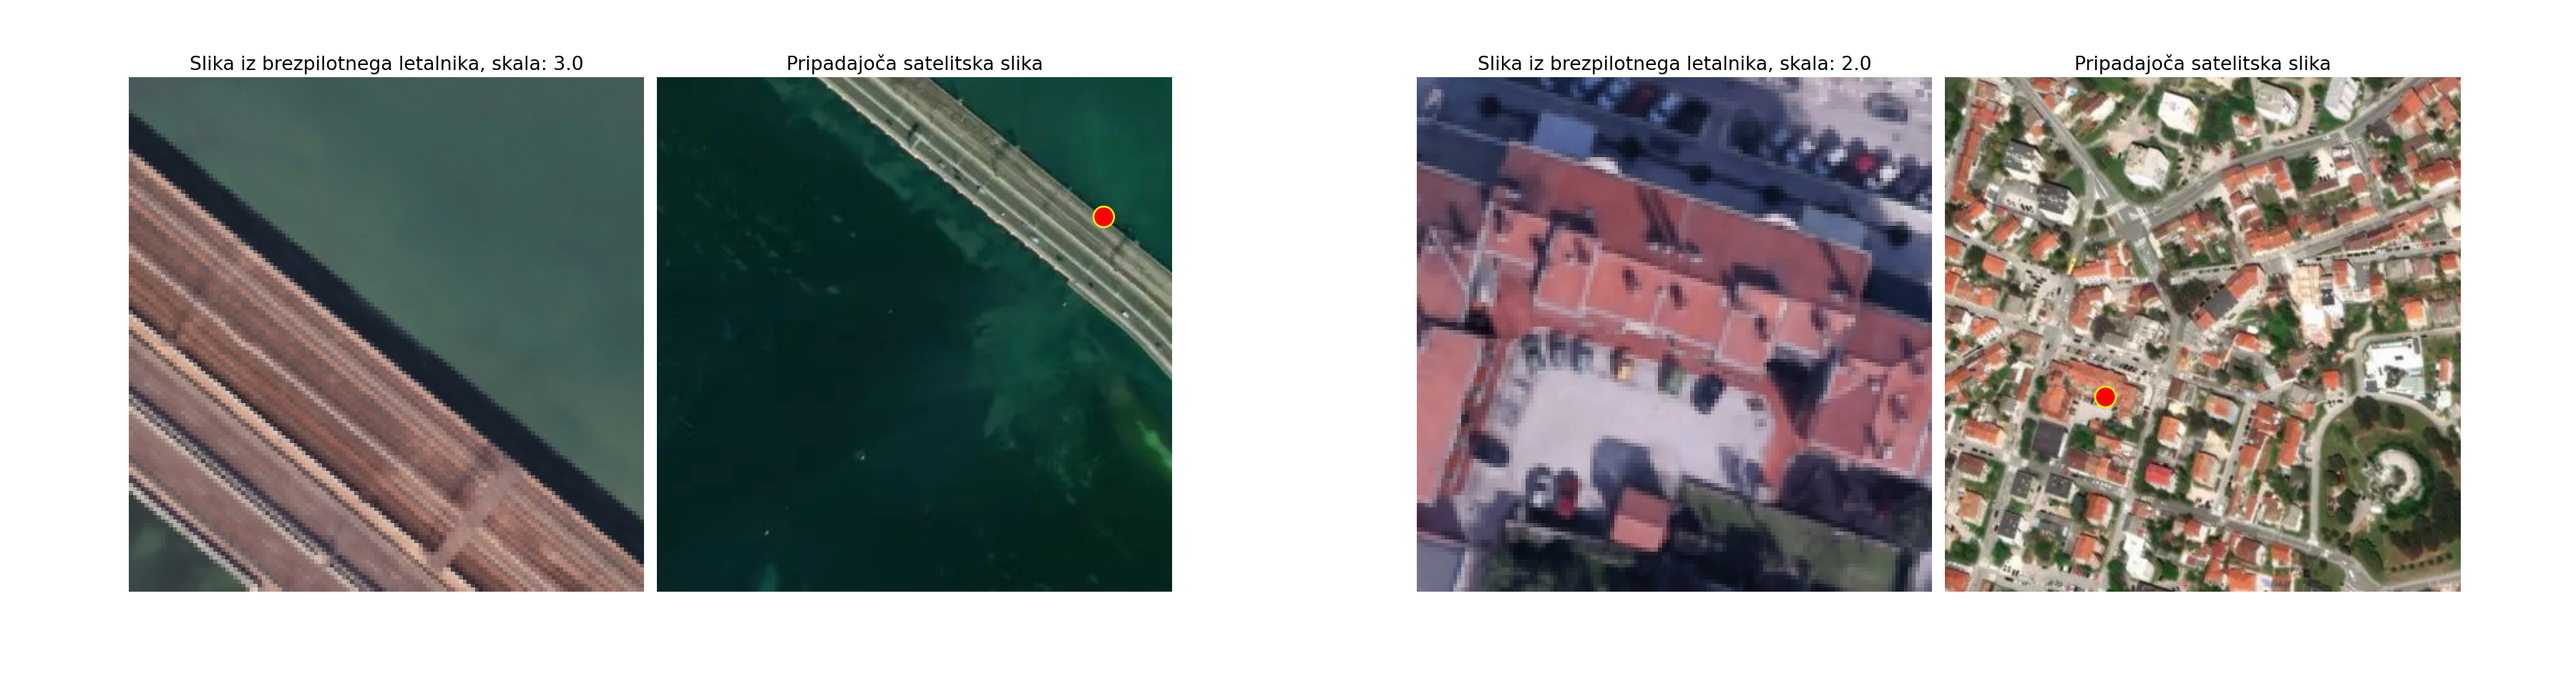
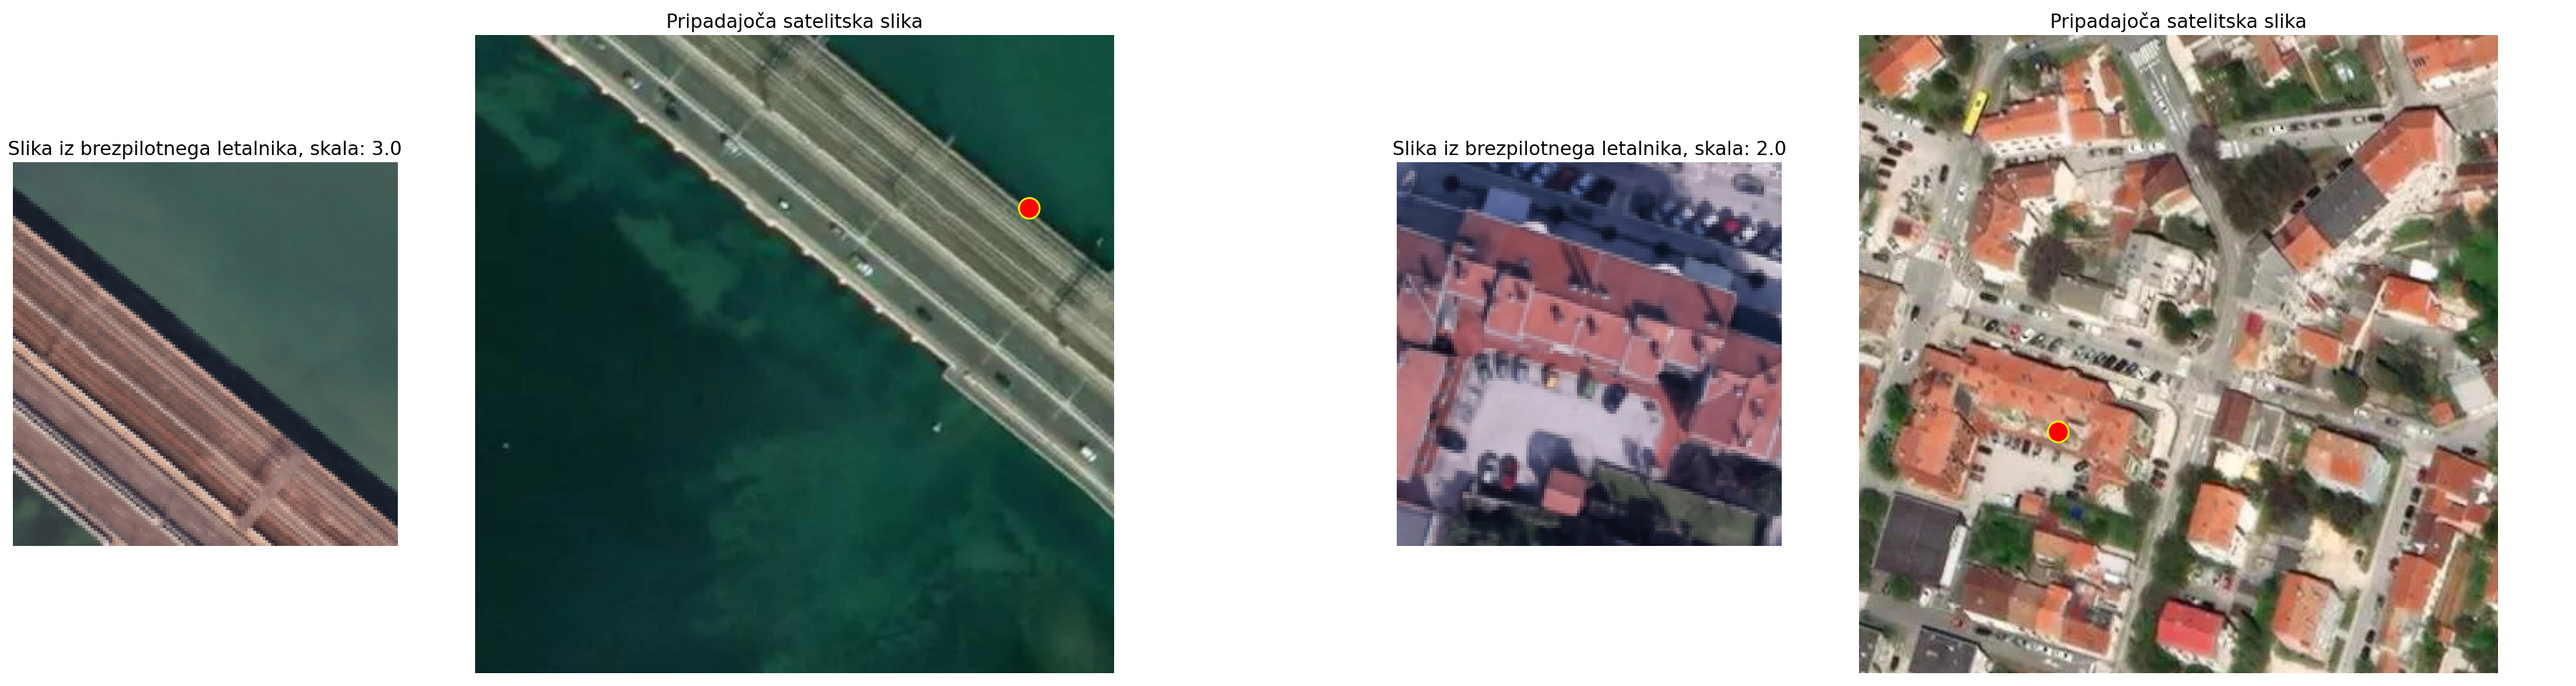
Much much much nicer plots:)

diff --git a/utils/plot_results_default_net.py b/utils/plot_results_default_net.py
@@ -1,71 +1,126 @@
-#! /usr/bin/env python3
 import matplotlib.pyplot as plt
 import matplotlib.image as mpimg
+import matplotlib.gridspec as gridspec
 
 
 def main():
     images_dict = {
         "good1": [
-            "../vis/b5ce014c96d04f16e1ffd457ca46200ed4a4bc03/sat_overlay_b5ce014c96d04f16e1ffd457ca46200ed4a4bc03-4-8.png",
-            "../vis/b5ce014c96d04f16e1ffd457ca46200ed4a4bc03/drone_image_b5ce014c96d04f16e1ffd457ca46200ed4a4bc03-4-8.png",
-            "../vis/b5ce014c96d04f16e1ffd457ca46200ed4a4bc03/sat_overlay_b5ce014c96d04f16e1ffd457ca46200ed4a4bc03-1-11.png",
-            "../vis/b5ce014c96d04f16e1ffd457ca46200ed4a4bc03/drone_image_b5ce014c96d04f16e1ffd457ca46200ed4a4bc03-1-11.png",
+            "../vis/b5ce014c96d04f16e1ffd457ca46200ed4a4bc03/sat_overlay_b5ce014c96d04f16e1ffd457ca46200ed4a4bc03-0-5.png",
+            "../vis/b5ce014c96d04f16e1ffd457ca46200ed4a4bc03/drone_image_b5ce014c96d04f16e1ffd457ca46200ed4a4bc03-0-5.png",
+            "../vis/b5ce014c96d04f16e1ffd457ca46200ed4a4bc03/satellite_image_b5ce014c96d04f16e1ffd457ca46200ed4a4bc03-0-5.png",
+            "../vis/b5ce014c96d04f16e1ffd457ca46200ed4a4bc03/sat_overlay_b5ce014c96d04f16e1ffd457ca46200ed4a4bc03-1-14.png",
+            "../vis/b5ce014c96d04f16e1ffd457ca46200ed4a4bc03/drone_image_b5ce014c96d04f16e1ffd457ca46200ed4a4bc03-1-14.png",
+            "../vis/b5ce014c96d04f16e1ffd457ca46200ed4a4bc03/satellite_image_b5ce014c96d04f16e1ffd457ca46200ed4a4bc03-1-14.png",
         ],
         "good2": [
-            "../vis/b5ce014c96d04f16e1ffd457ca46200ed4a4bc03/sat_overlay_b5ce014c96d04f16e1ffd457ca46200ed4a4bc03-2-6.png",
-            "../vis/b5ce014c96d04f16e1ffd457ca46200ed4a4bc03/drone_image_b5ce014c96d04f16e1ffd457ca46200ed4a4bc03-2-6.png",
-            "../vis/b5ce014c96d04f16e1ffd457ca46200ed4a4bc03/sat_overlay_b5ce014c96d04f16e1ffd457ca46200ed4a4bc03-3-4.png",
-            "../vis/b5ce014c96d04f16e1ffd457ca46200ed4a4bc03/drone_image_b5ce014c96d04f16e1ffd457ca46200ed4a4bc03-3-4.png",
+            "../vis/b5ce014c96d04f16e1ffd457ca46200ed4a4bc03/sat_overlay_b5ce014c96d04f16e1ffd457ca46200ed4a4bc03-5-0.png",
+            "../vis/b5ce014c96d04f16e1ffd457ca46200ed4a4bc03/drone_image_b5ce014c96d04f16e1ffd457ca46200ed4a4bc03-5-0.png",
+            "../vis/b5ce014c96d04f16e1ffd457ca46200ed4a4bc03/satellite_image_b5ce014c96d04f16e1ffd457ca46200ed4a4bc03-5-0.png",
+            "../vis/b5ce014c96d04f16e1ffd457ca46200ed4a4bc03/sat_overlay_b5ce014c96d04f16e1ffd457ca46200ed4a4bc03-5-1.png",
+            "../vis/b5ce014c96d04f16e1ffd457ca46200ed4a4bc03/drone_image_b5ce014c96d04f16e1ffd457ca46200ed4a4bc03-5-1.png",
+            "../vis/b5ce014c96d04f16e1ffd457ca46200ed4a4bc03/satellite_image_b5ce014c96d04f16e1ffd457ca46200ed4a4bc03-5-1.png",
+        ],
+        "good3": [
+            "../vis/b5ce014c96d04f16e1ffd457ca46200ed4a4bc03/sat_overlay_b5ce014c96d04f16e1ffd457ca46200ed4a4bc03-4-8.png",
+            "../vis/b5ce014c96d04f16e1ffd457ca46200ed4a4bc03/drone_image_b5ce014c96d04f16e1ffd457ca46200ed4a4bc03-4-8.png",
+            "../vis/b5ce014c96d04f16e1ffd457ca46200ed4a4bc03/satellite_image_b5ce014c96d04f16e1ffd457ca46200ed4a4bc03-4-8.png",
+            "../vis/b5ce014c96d04f16e1ffd457ca46200ed4a4bc03/sat_overlay_b5ce014c96d04f16e1ffd457ca46200ed4a4bc03-0-14.png",
+            "../vis/b5ce014c96d04f16e1ffd457ca46200ed4a4bc03/drone_image_b5ce014c96d04f16e1ffd457ca46200ed4a4bc03-0-14.png",
+            "../vis/b5ce014c96d04f16e1ffd457ca46200ed4a4bc03/satellite_image_b5ce014c96d04f16e1ffd457ca46200ed4a4bc03-0-14.png",
         ],
         "bad1": [
-            "../vis/b5ce014c96d04f16e1ffd457ca46200ed4a4bc03/sat_overlay_b5ce014c96d04f16e1ffd457ca46200ed4a4bc03-2-9.png",
-            "../vis/b5ce014c96d04f16e1ffd457ca46200ed4a4bc03/drone_image_b5ce014c96d04f16e1ffd457ca46200ed4a4bc03-2-9.png",
-            "../vis/b5ce014c96d04f16e1ffd457ca46200ed4a4bc03/sat_overlay_b5ce014c96d04f16e1ffd457ca46200ed4a4bc03-2-9.png",
-            "../vis/b5ce014c96d04f16e1ffd457ca46200ed4a4bc03/drone_image_b5ce014c96d04f16e1ffd457ca46200ed4a4bc03-2-9.png",
+            "../vis/b5ce014c96d04f16e1ffd457ca46200ed4a4bc03/sat_overlay_b5ce014c96d04f16e1ffd457ca46200ed4a4bc03-12-1.png",
+            "../vis/b5ce014c96d04f16e1ffd457ca46200ed4a4bc03/drone_image_b5ce014c96d04f16e1ffd457ca46200ed4a4bc03-12-1.png",
+            "../vis/b5ce014c96d04f16e1ffd457ca46200ed4a4bc03/satellite_image_b5ce014c96d04f16e1ffd457ca46200ed4a4bc03-12-1.png",
+            "../vis/b5ce014c96d04f16e1ffd457ca46200ed4a4bc03/sat_overlay_b5ce014c96d04f16e1ffd457ca46200ed4a4bc03-17-5.png",
+            "../vis/b5ce014c96d04f16e1ffd457ca46200ed4a4bc03/drone_image_b5ce014c96d04f16e1ffd457ca46200ed4a4bc03-17-5.png",
+            "../vis/b5ce014c96d04f16e1ffd457ca46200ed4a4bc03/satellite_image_b5ce014c96d04f16e1ffd457ca46200ed4a4bc03-17-5.png",
         ],
         "bad2": [
-            "../vis/b5ce014c96d04f16e1ffd457ca46200ed4a4bc03/sat_overlay_b5ce014c96d04f16e1ffd457ca46200ed4a4bc03-5-5.png",
-            "../vis/b5ce014c96d04f16e1ffd457ca46200ed4a4bc03/drone_image_b5ce014c96d04f16e1ffd457ca46200ed4a4bc03-5-5.png",
-            "../vis/b5ce014c96d04f16e1ffd457ca46200ed4a4bc03/sat_overlay_b5ce014c96d04f16e1ffd457ca46200ed4a4bc03-16-4.png",
-            "../vis/b5ce014c96d04f16e1ffd457ca46200ed4a4bc03/drone_image_b5ce014c96d04f16e1ffd457ca46200ed4a4bc03-16-4.png",
+            "../vis/b5ce014c96d04f16e1ffd457ca46200ed4a4bc03/sat_overlay_b5ce014c96d04f16e1ffd457ca46200ed4a4bc03-6-9.png",
+            "../vis/b5ce014c96d04f16e1ffd457ca46200ed4a4bc03/drone_image_b5ce014c96d04f16e1ffd457ca46200ed4a4bc03-6-9.png",
+            "../vis/b5ce014c96d04f16e1ffd457ca46200ed4a4bc03/satellite_image_b5ce014c96d04f16e1ffd457ca46200ed4a4bc03-6-9.png",
+            "../vis/b5ce014c96d04f16e1ffd457ca46200ed4a4bc03/sat_overlay_b5ce014c96d04f16e1ffd457ca46200ed4a4bc03-18-11.png",
+            "../vis/b5ce014c96d04f16e1ffd457ca46200ed4a4bc03/drone_image_b5ce014c96d04f16e1ffd457ca46200ed4a4bc03-18-11.png",
+            "../vis/b5ce014c96d04f16e1ffd457ca46200ed4a4bc03/satellite_image_b5ce014c96d04f16e1ffd457ca46200ed4a4bc03-18-11.png",
+        ],
+        "bad3": [
+            "../vis/b5ce014c96d04f16e1ffd457ca46200ed4a4bc03/sat_overlay_b5ce014c96d04f16e1ffd457ca46200ed4a4bc03-24-9.png",
+            "../vis/b5ce014c96d04f16e1ffd457ca46200ed4a4bc03/drone_image_b5ce014c96d04f16e1ffd457ca46200ed4a4bc03-24-9.png",
+            "../vis/b5ce014c96d04f16e1ffd457ca46200ed4a4bc03/satellite_image_b5ce014c96d04f16e1ffd457ca46200ed4a4bc03-24-9.png",
+            "../vis/b5ce014c96d04f16e1ffd457ca46200ed4a4bc03/sat_overlay_b5ce014c96d04f16e1ffd457ca46200ed4a4bc03-1-13.png",
+            "../vis/b5ce014c96d04f16e1ffd457ca46200ed4a4bc03/drone_image_b5ce014c96d04f16e1ffd457ca46200ed4a4bc03-1-13.png",
+            "../vis/b5ce014c96d04f16e1ffd457ca46200ed4a4bc03/satellite_image_b5ce014c96d04f16e1ffd457ca46200ed4a4bc03-1-13.png",
         ],
     }
 
-    def plot_quadruple(drone_path1, sat_path1, drone_path2, sat_path2, count):
-        fig, axs = plt.subplots(1, 4, figsize=(30, 8))
+    def plot_quadruple(
+        drone_path1,
+        sat_path1,
+        overlay_path1,
+        drone_path2,
+        sat_path2,
+        overlay_path2,
+        count,
+    ):
+        # Create the figure
+        fig = plt.figure(figsize=(30, 8))
 
-        drone_img1 = mpimg.imread(drone_path1)
-        axs[0].imshow(drone_img1)
-        axs[0].set_title("Slika iz brezpilotnega letalnika", fontsize=16)
-        axs[0].axis("off")
+        gs = gridspec.GridSpec(1, 7, width_ratios=[1, 2, 2, 0.5, 1, 2, 2])
 
-        sat_img1 = mpimg.imread(sat_path1)
-        axs[1].imshow(sat_img1)
-        axs[1].set_title("Izhod modela", fontsize=16)
-        axs[1].axis("off")
+        ax1 = fig.add_subplot(gs[0])
+        ax1.imshow(mpimg.imread(drone_path1))
+        ax1.set_title("Drone Image", fontsize=16)
+        ax1.axis("off")
 
-        drone_img2 = mpimg.imread(drone_path2)
-        axs[2].imshow(drone_img2)
-        axs[2].set_title("Slika iz brezpilotnega letalnika", fontsize=16)
-        axs[2].axis("off")
+        ax2 = fig.add_subplot(gs[1])
+        ax2.imshow(mpimg.imread(sat_path1))
+        ax2.set_title("Satellite Image", fontsize=16)
+        ax2.axis("off")
 
-        sat_img2 = mpimg.imread(sat_path2)
-        axs[3].imshow(sat_img2)
-        axs[3].set_title("Izhod modela", fontsize=16)
-        axs[3].axis("off")
+        ax3 = fig.add_subplot(gs[2])
+        ax3.imshow(mpimg.imread(overlay_path1))
+        ax3.set_title("Satellite Overlay", fontsize=16)
+        ax3.axis("off")
 
-        axs[0].set_position([0.05, 0.125, 0.2, 0.775])  # [left, bottom, width, height]
-        axs[1].set_position([0.255, 0.125, 0.2, 0.775])
-        axs[2].set_position([0.55, 0.125, 0.2, 0.775])
-        axs[3].set_position([0.755, 0.125, 0.2, 0.775])
+        ax4 = fig.add_subplot(gs[4])
+        ax4.imshow(mpimg.imread(drone_path2))
+        ax4.set_title("Drone Image", fontsize=16)
+        ax4.axis("off")
 
-        plt.savefig(f"./res/drone_net_example_{count}.png", dpi=140)
+        ax5 = fig.add_subplot(gs[5])
+        ax5.imshow(mpimg.imread(sat_path2))
+        ax5.set_title("Satellite Image", fontsize=16)
+        ax5.axis("off")
+
+        ax6 = fig.add_subplot(gs[6])
+        ax6.imshow(mpimg.imread(overlay_path2))
+        ax6.set_title("Satellite Overlay", fontsize=16)
+        ax6.axis("off")
+
+        plt.tight_layout()
+
+        plt.savefig(
+            f"./res/drone_net_example_{count}.png",
+            dpi=100,
+            bbox_inches="tight",
+            pad_inches=0.1,
+        )
         plt.close()
 
     count = 0
     for category, paths in images_dict.items():
-        for i in range(0, len(paths), 4):  # We take in groups of 4 now
-            plot_quadruple(paths[i + 1], paths[i], paths[i + 3], paths[i + 2], count)
+        for i in range(0, len(paths), 6):  # Groups of 6
+            plot_quadruple(
+                paths[i + 1],
+                paths[i + 2],
+                paths[i],
+                paths[i + 4],
+                paths[i + 5],
+                paths[i + 3],
+                count,
+            )
             count += 1
 
 

diff --git a/joined_dataset.py b/joined_dataset.py
@@ -759,20 +759,25 @@ def test():
 
         drone_images, drone_infos, satellite_images, _ = batch  # We don't need heatmaps
 
-        fig, axs = plt.subplots(1, 4, figsize=(30, 8))
+        fig = plt.figure(figsize=(30, 8))
+
+        # Using gridspec to define the structure
+        gs = gridspec.GridSpec(1, 5, width_ratios=[1, 2, 0.5, 1, 2])
 
         # Drone Image 1
-        axs[0].imshow(inverse_transforms(drone_images[0]))
-        axs[0].set_title(
+        ax1 = fig.add_subplot(gs[0])
+        ax1.imshow(inverse_transforms(drone_images[0]))
+        ax1.set_title(
             f"Slika iz brezpilotnega letalnika, skala: {drone_infos['scale'][0]}",
             fontsize=16,
         )
-        axs[0].axis("off")
+        ax1.axis("off")
 
         # Satellite Image 1
-        axs[1].imshow(inverse_transforms(satellite_images[0]))
-        axs[1].set_title(f"Pripadajoča satelitska slika", fontsize=16)
-        axs[1].scatter(
+        ax2 = fig.add_subplot(gs[1])
+        ax2.imshow(inverse_transforms(satellite_images[0]))
+        ax2.set_title(f"Pripadajoča satelitska slika", fontsize=16)
+        ax2.scatter(
             drone_infos["x_sat"][0],
             drone_infos["y_sat"][0],
             c="r",
@@ -780,26 +785,22 @@ def test():
             edgecolor="yellow",
             linewidths=1.5,
         )
-        axs[1].axis("off")
-
-        # Adjusting the positions
-        axs[0].set_position([0.05, 0.125, 0.2, 0.775])  # [left, bottom, width, height]
-        axs[1].set_position([0.255, 0.125, 0.2, 0.775])
-        axs[2].set_position([0.55, 0.125, 0.2, 0.775])
-        axs[3].set_position([0.755, 0.125, 0.2, 0.775])
+        ax2.axis("off")
 
         # Drone Image 2
-        axs[2].imshow(inverse_transforms(drone_images[1]))
-        axs[2].set_title(
+        ax3 = fig.add_subplot(gs[3])
+        ax3.imshow(inverse_transforms(drone_images[1]))
+        ax3.set_title(
             f"Slika iz brezpilotnega letalnika, skala: {drone_infos['scale'][1]}",
             fontsize=16,
         )
-        axs[2].axis("off")
+        ax3.axis("off")
 
         # Satellite Image 2
-        axs[3].imshow(inverse_transforms(satellite_images[1]))
-        axs[3].set_title(f"Pripadajoča satelitska slika", fontsize=16)
-        axs[3].scatter(
+        ax4 = fig.add_subplot(gs[4])
+        ax4.imshow(inverse_transforms(satellite_images[1]))
+        ax4.set_title(f"Pripadajoča satelitska slika", fontsize=16)
+        ax4.scatter(
             drone_infos["x_sat"][1],
             drone_infos["y_sat"][1],
             c="r",
@@ -807,7 +808,9 @@ def test():
             edgecolor="yellow",
             linewidths=1.5,
         )
-        axs[3].axis("off")
+        ax4.axis("off")
+
+        plt.tight_layout()
 
         plt.savefig(
             f"./utils/res/drone_sat_examples/drone_sat_example_{count + 1}.png", dpi=120

diff --git a/val.py b/val.py
@@ -508,6 +508,9 @@ class CrossViewValidator:
             sat_image, heatmap_pred, x_pred, y_pred, metadata, i, j, inverse_transforms
         )
 
+        ## Satellite image
+        self.save_satellite_image(sat_image, i, j, inverse_transforms)
+
     def save_drone_image(self, drone_image, i, j, inverse_transforms):
         """Save just the drone image."""
         fig, ax = plt.subplots(figsize=(10, 10))
@@ -515,6 +518,18 @@ class CrossViewValidator:
         ax.axis("off")
         plt.savefig(
             f"./vis/{self.val_hash}/drone_image_{self.val_hash}-{i}-{j}.png",
+            bbox_inches="tight",
+            pad_inches=0,
+        )
+        plt.close()
+
+    def save_satellite_image(self, sat_image, i, j, inverse_transforms):
+        """Save just the satellite image."""
+        fig, ax = plt.subplots(figsize=(10, 10))
+        ax.imshow(inverse_transforms(sat_image))
+        ax.axis("off")
+        plt.savefig(
+            f"./vis/{self.val_hash}/satellite_image_{self.val_hash}-{i}-{j}.png",
             bbox_inches="tight",
             pad_inches=0,
         )
